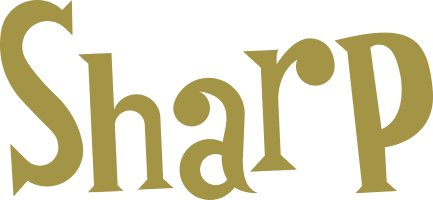
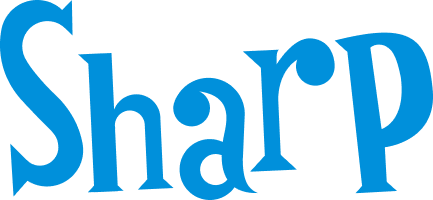
back to blue

diff --git a/index.html b/index.html
@@ -148,7 +148,7 @@
                         <p>My approach starts with the why. I focus on understanding the root of every problem before designing solutions. This ensures I am solving the right challenge, not just addressing symptoms.</p>
                         <p>I have helped teachers spend less time managing screen time and more time helping students. I have given HR teams the clarity to focus on workplace morale instead of hunting for HSA balances. There is always some task employees have to accomplish to keep the lights on, even if they do not want to do it. My goal is to make those tasks so straightforward that people can finish quickly and move on to what really matters to them.</p>
                         <p>Accessibility is central to everything I build. I design inclusive experiences that work for all users because it is the right thing to do and it makes better products.</p>
-                        <p>When I am not designing, you will find me tinkering on cars and engines in the garage, cooking or smoking new foods, and trying to make my wife laugh or roll her eyes at me.</p>
+                        <p>When I am not designing, you will find me tinkering on cars and engines in the garage, cooking or smoking new foods, and trying to make my wife laugh or roll her eyes at me. Sometimes that happens at the same time.</p>
                         <p>Currently driving UX improvements at Deque Systems through user-centered design.</p>
                     </div>
                 </div>

diff --git a/css/styles.css b/css/styles.css
@@ -1,22 +1,17 @@
 /* styles.css - WCAG 2.2 AAA Compliant with best practices */
 @import url('https://fonts.googleapis.com/css2?family=Raleway:ital,wght@0,100..900;1,100..900&display=swap');
 
-
-/* Light mode */
-
-/* Dark mode */
-
     :root {
         /* Colors */
-        --color-primary: #A39446;
-        --color-primary-dark: #706630;
-        --color-text: #cccac2;
-        --color-text-light: #e6e4da;
-        --color-background: #030202;
-        --color-background-alt: #0A0A08;
-        --color-footer-background: #A39446;
-        --color-border: #383524;
-        --color-focus: #A39446;
+        --color-primary: #0090DB;
+        --color-primary-dark: #0073AE;
+        --color-text: #B7BFC3;
+        --color-text-light: #BEDAE9;
+        --color-background: #000305;
+        --color-background-alt: #000A0F;
+        --color-footer-background: #0090DB;
+        --color-border: #003C5C;
+        --color-focus: #0090DB;
         
         /* Spacing */
         --space-xs: 0.5rem;
@@ -252,6 +247,10 @@ header {
     transform: translate(0, 0.25rem);
 }
 
+.button:active {
+    background-color: var(--color-text-light);
+}
+
 /* Links */
 a.links {
     color: var(--color-primary);
@@ -270,6 +269,7 @@ a.links:focus {
     outline: 3px solid var(--color-focus);
     outline-offset: 2px;
 }
+
 
 /* Work section */
 .work-section {
